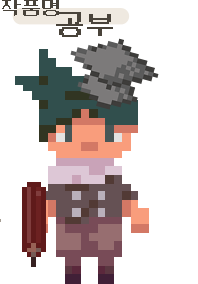
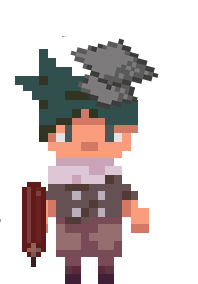
지하 갤러리 공부 부분도 캔버스에 그리도록 변경

Changed region(s): [[0.0, 0.0, 0.6667, 0.1408]]

diff --git a/descHtml/introduce2.html b/descHtml/introduce2.html
@@ -1,19 +1,71 @@
-<div style="display: inline-block; margin: auto; padding:20px;">
-
-	<img id="profile1_0" style="float:left;" src="/resource/img/profile1_0.png"/>
-	<img id="profile1_1" style="float:left;" src="/resource/img/profile1_1.png"/>
-	
+<div>
+	<canvas style="display: block; margin: auto; border-style: solid; background-color: #747474;" id="introduce2"></canvas>
 </div>
 
 <script type="text/javascript">
-	$("#profile1_0").hide();
-	$("#profile1_1").hide();
+	
+	$("#introduce2").hide();
+	$("#introduce2").fadeIn();
 
-	$('#profile1_0').load(function() {
-		if(this.complete){
-		$(this).fadeIn(null, function(){
-				$("#profile1_1").slideDown("slow");
-			});
-		}
-	});
+	(function(){
+		var c = document.getElementById("introduce2");
+		var c_ctx = c.getContext('2d');
+
+		c.width = document.getElementById("descHtml").offsetWidth;
+		c.height = canvas.offsetHeight;	
+
+		// 타이틀 이미지
+	    c.titleImg = new Drawable(c, '/resource/img/profile1_title.png');
+	    c.titleImg.setPartialDrawSecond(0.5);
+
+	    c.leftImg = new Drawable(c, '/resource/img/profile1_0.png');
+	    c.leftImg.setPartialDrawSecond(0.5);
+	    
+	    c.rightImg = new Drawable(c, '/resource/img/profile1_1.png');
+	    c.rightImg.setWaitDrawSecond(0.5);
+	    c.rightImg.setPartialDrawSecond(0.5);
+	    c.rightImg.originalRightPos = 0;
+	    c.rightImg.img.onload = function()
+	    {
+	    	c.rightImg.setPosition(213, 15);
+	    	c.rightImg.originalRightPos = c.rightImg.getSize().width + c.rightImg.pos.x;
+	    }
+	    
+	    var recalcPosition = function(){
+
+	    	c.titleImg.setPosition(15, 15);
+
+			c.leftImg.setPosition(15, 15);
+
+			if(c.width < c.rightImg.originalRightPos){
+				c.leftImg.setScale(0.75);
+				c.rightImg.setScale(0.75);
+
+				c.rightImg.setPosition((c.leftImg.getSize().width + 15) * 0.75, 15);
+			}
+			else
+			{
+				c.leftImg.setScale(1);
+				c.rightImg.setScale(1);
+
+				c.rightImg.setPosition(c.leftImg.getSize().width + 15, 15);
+			}
+	    }
+ 
+	    setUpdateFunc(function(dt){
+			if(c.width != document.getElementById("descHtml").offsetWidth)
+			{
+				c.width = document.getElementById("descHtml").offsetWidth;
+			}
+
+			c_ctx.clearRect(0, 0, c.width, c.height);
+
+			recalcPosition();
+
+			for(var i = 0 ; i < c.drawables.length ; ++i)
+			{
+				c.drawables[i].draw();
+			}
+		});
+	})();
 </script>

diff --git a/descHtml/introduce1.html b/descHtml/introduce1.html
@@ -43,8 +43,7 @@
 	    c.charImg.setWaitDrawSecond(1.5);
 
 	    var recalcPosition = function(){
-	    	var height = canvas.offsetHeight;
-
+	    	
 			c.titleImg.setPosition(15, 15);
 			c.eggImg.setPosition(60, c.height - c.eggImg.getSize().height - 30);
 			c.charImg.setPosition(c.width - c.charImg.getSize().width - 30, c.height - c.charImg.getSize().height - 15);
@@ -63,12 +62,6 @@
 
 				c.hometownImg.setPosition(150, 30);
 				c.arrowImg.setPosition(150, 170);
-			}
-
-
-			if(c.height != height)
-			{
-				c.height = height;
 			}
 	    }
  
